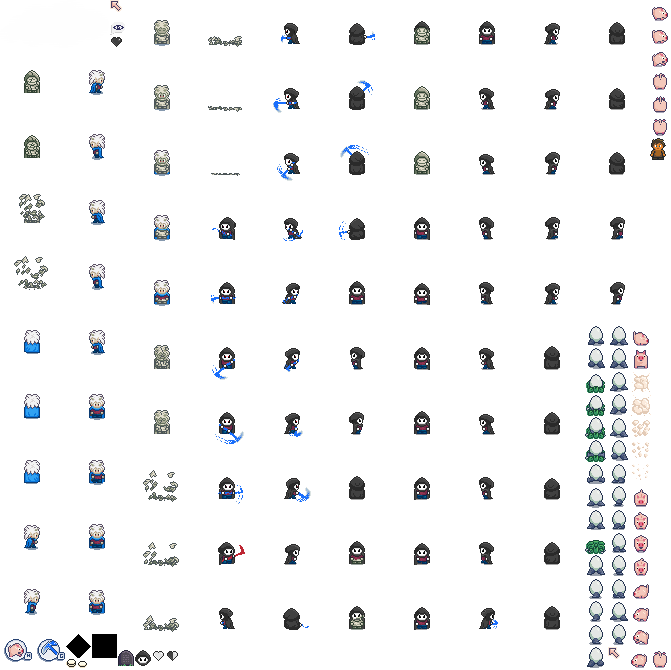
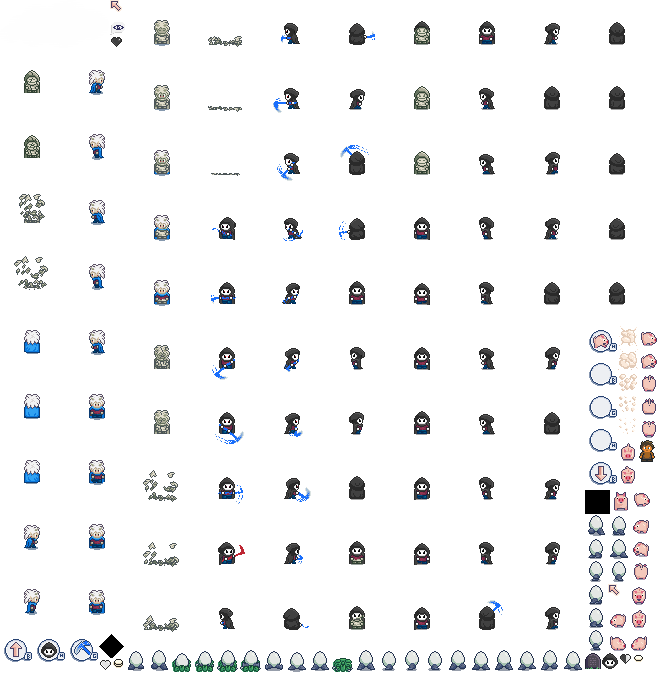
UI is dynamic

diff --git a/game/js/inputController.js b/game/js/inputController.js
@@ -1,0 +1,54 @@
+var InputController = function(world) {
+	
+	var ic = {};
+	ic.update = function() {
+		var player = world.player;
+		var pig = world.pig;
+
+		if (isEvent == false) {
+			if (Pad.justDown(Pad.SELECT)) {
+				world.cursor.visible = !world.cursor.visible;
+			}
+
+			if (player.state != STATES.INUSE) {
+				if (Pad.justDown(Pad.X)) {
+					player.swapStone();
+				}
+
+				if (player.state != STATES.STONE) {
+					//Controll of the player
+					player.input();
+
+					if (Pad.justDown(Pad.Y) && player.item1) {
+						player.item1.action();
+					}
+
+					if (Pad.justDown(Pad.B) && player.item2) {
+						player.item2.action();
+					}
+
+					if (Pad.justDown(Pad.A) && player.attachedEvent) {
+						player.animations.play("stand_" + player.lookDirection);
+						player.attachedEvent.interact();
+					}
+				} else {
+					//Player ist stone so we controll the pig
+					pig.input();
+
+					if (Pad.justDown(Pad.B)) {
+						if (pig.state == STATES.NORMAL) {
+							pig.sitDown();
+						} else {
+							pig.standUp();
+						}
+					}
+				}
+			}
+
+			
+		}
+		
+	}
+
+	return ic;
+}

diff --git a/game/js/ui.js b/game/js/ui.js
@@ -43,7 +43,24 @@ var UI = function(world) {
 	}
 
 	//items
-	ui.item1 = game.add.sprite(game.width - 100, -7, "atlas", "icon_id_0", ui);
-	ui.item1 = game.add.sprite(game.width - 70, -7, "atlas", "icon_id_1", ui);
+	ui.btnY = game.add.sprite(game.width - 130, -7, "atlas", "icon_id_0", ui);
+	ui.btnB = game.add.sprite(game.width - 100, -7, "atlas", "icon_id_7", ui);
+	ui.btnX = game.add.sprite(game.width - 70, -7, "atlas", "icon_id_1", ui);
+
+	ui.setIconY = function(id) {
+		setIcon(ui.btnY, id);
+	}
+
+	ui.setIconB = function(id) {
+		setIcon(ui.btnB, id);
+	}
+
+	ui.setIconX = function(id) {
+		setIcon(ui.btnX, id);
+	}
+
+	function setIcon(btn, id) {
+		btn.frameName = "icon_id_" + id;
+	}
 	return ui;
 };

diff --git a/game/js/player.js b/game/js/player.js
@@ -124,10 +124,18 @@ var Player = function(world, x, y) {
 		if (inChange) return;
 		if (player.state == STATES.STONE) {
 			fromStone();
+			player.setUI();
 			if (world.pig.state == STATES.NORMAL) world.pig.teleport();
 		} else {
 			toStone();
+			world.pig.setUI();
 		}
+	}
+
+	function setUI() {
+		world.ui.setIconY(0);
+		world.ui.setIconB(7);
+		world.ui.setIconX(1);
 	}
 
 	//Creates a stone statue an replaces the demon char
@@ -265,6 +273,7 @@ var Player = function(world, x, y) {
 	player.walkAuto = walkAuto;
 	player.myPostUpdate = myPostUpdate;
 	player.swapStone = swapStone;
+	player.setUI = setUI;
 
 	return player;
 };

diff --git a/game/js/pig.js b/game/js/pig.js
@@ -123,11 +123,13 @@ var Pig = function(world, x, y) {
 
 	pig.sitDown = function() {
 		pig.state = STATES.SIT;
+		pig.setUI();
 		pig.animations.play("sit");
 	}
 
 	pig.standUp = function() {
 		pig.state = STATES.NORMAL;
+		pig.setUI();
 		pig.animations.play("stand_" + lookDirection);
 	}
 
@@ -177,6 +179,16 @@ var Pig = function(world, x, y) {
 		}
 		
 
+	}
+
+	pig.setUI = function() {
+		world.ui.setIconY(6);
+		switch (pig.state) {
+			case STATES.NORMAL: world.ui.setIconB(3); break;
+			case STATES.SIT: world.ui.setIconB(4); break;
+		}
+		
+		world.ui.setIconX(2);
 	}
 
 	pig.teleport = function() {

diff --git a/game/js/game.js b/game/js/game.js
@@ -28,7 +28,7 @@ var TEST3 = null;
 
 var firstStart = false;
 
-var globalMusicVolume = 0;//0.5;
+var globalMusicVolume = 0.5;
 var globalSoundVolume = 1;
 
 var MAP = {
